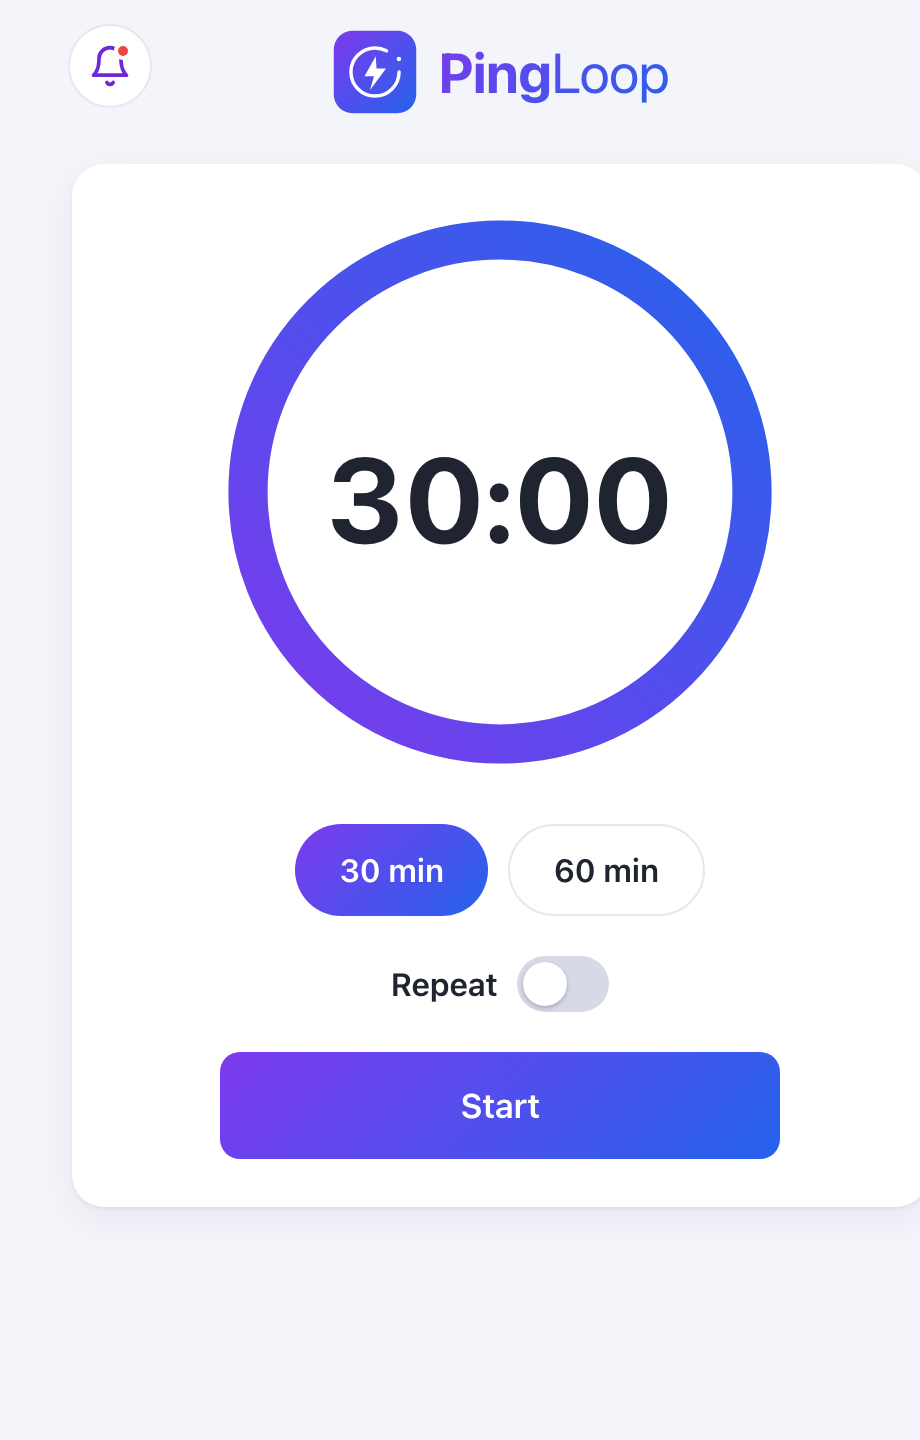
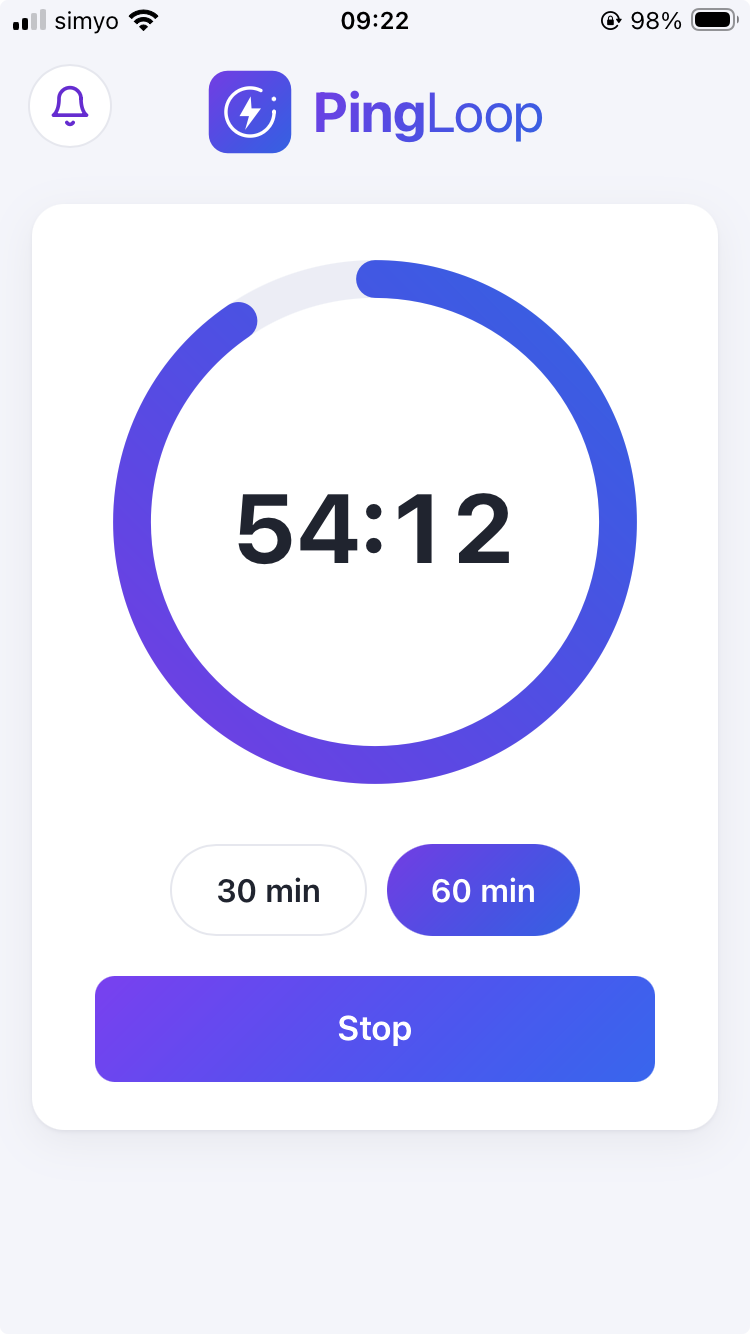
Refresh readme screenshot, add notification mockup

diff --git a/README.md b/README.md
@@ -1,11 +1,15 @@
 <p align="center">
-  <img src="docs/screenshot.png" alt="PingLoop with a 30 minute focus timer" width="320" />
+  <img src="docs/screenshot.png" alt="PingLoop running a focus timer on iPhone" width="300" />
 </p>
 
 A tiny focus timer that pings me to take a break.
 
 I made it for myself. I work in 30 or 60 minute blocks, and when the time is up it
 nudges me to get up and do something else for a minute: water the plants, a lap through the garden, that kind of thing. Each ping suggests one.
+
+<p align="center">
+  <img src="docs/notifications.png" alt="PingLoop notifications, each suggesting a break" width="440" />
+</p>
 
 It was also a nice excuse to play with a few things I had not used much: installable
 PWAs, free Cloudflare Workers, and getting real notifications to show up on both my